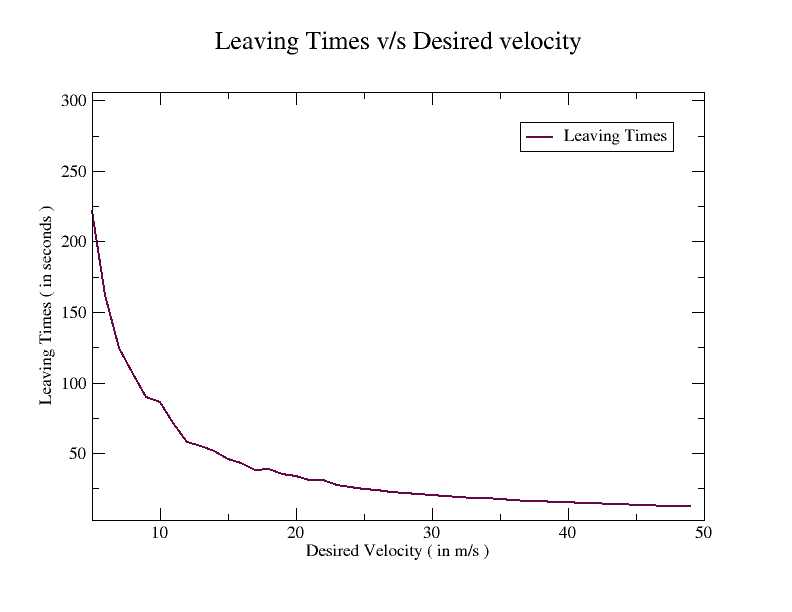
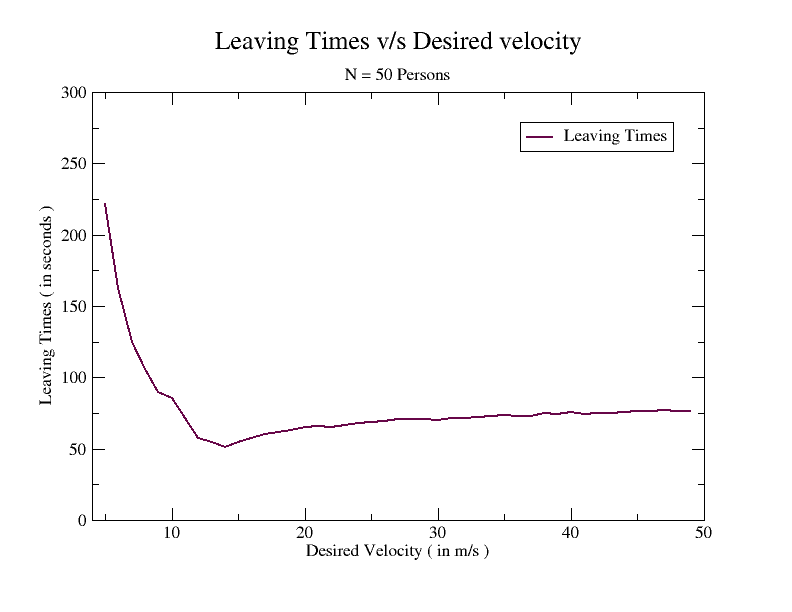
Modelled Tangential Force

diff --git a/model.py b/model.py
@@ -9,6 +9,7 @@ from pygame.locals import *
 from turtle import screensize
 from model_parameters import locations, N, walls, wall_distance, normalize, g
 
+# FILE HANDLING ROUTINE
 # a = 1 
 # while a <= N:
 #     path = r'C:\\Users\\Gourang Pathak\\Desktop\\Gourang\\NSM-Goa-4-Project\\positions'
@@ -38,7 +39,7 @@ from model_parameters import locations, N, walls, wall_distance, normalize, g
 #         fp.write("Starting Actual Velocity = ")
 #     c += 1
 
-f = open("data.xyz", "a");
+f = open("data.xyz", "a")
 
 pygame.init()
 pygame.font.init() 
@@ -89,6 +90,7 @@ class Person(object):
               
         
         self.K = 120000
+        self.kappa = 240000
         self.A_i = 2000
         self.B_i = 0.08*50
 
@@ -109,19 +111,21 @@ class Person(object):
         d_ij = np.linalg.norm(self.pos - other.pos)
         r_ij = self.shoulder_radius + other.shoulder_radius
         n_ij = (self.pos - other.pos)/d_ij
+        t_ij = [-n_ij[1],n_ij[0]]
         total = self.A_i*np.exp((r_ij-d_ij)/(self.B_i))*n_ij
         + self.K*g(r_ij-d_ij)*n_ij
-        
+        + self.kappa*g(r_ij-d_ij)*(other.desired_V - self.desired_V)*t_ij
         if d_ij <= r_ij:
             self.collisions += 1
             
         return total
     
     def f_iW(self, wall): # interaction with the wall in the room
-        d_iW,n_iW = wall_distance(self.pos,wall)
+        d_iW,n_iW,t_iW = wall_distance(self.pos,wall)
         r_i = self.shoulder_radius
         total = -self.A_i*np.exp((r_i-d_iW)/self.B_i)*n_iW 
         + self.K*g(r_i-d_iW)*n_iW
+        + self.kappa*g(r_i-d_iW)*self.desired_V*t_iW
         return total
 
 def main():
@@ -164,7 +168,7 @@ def main():
             for P_i in persons:
                 persons.remove(P_i)
 
-        dt = clock.tick(50)/1000
+        dt = clock.tick(70)/1000
         
         for event in pygame.event.get():
             if event.type == pygame.QUIT:
@@ -183,7 +187,7 @@ def main():
             end_posx = end_posw
             pygame.draw.line(roomscreen, wall_color, start_posx, end_posx, 3)
         
-        f.write("\n"+str(len(persons))+"\n")
+        f.write(str(len(persons))+"\n")
         f.write("Positions\n")
 
         for P_i in persons:
@@ -220,9 +224,9 @@ def main():
             # f.close()
 
             # Avoiding disappearing persons   
-            # if P_i.pos[0] > 750 or P_i.pos[0] < 50 or P_i.pos[1] > 750 or P_i.pos[1] < 50:
-            #     main()
-            #     sys.exit()
+            if P_i.pos[0] > 750 or P_i.pos[0] < 50 or P_i.pos[1] > 750 or P_i.pos[1] < 50:
+                main()
+                sys.exit()
             
             P_i.time += clock.get_time()/1000 
         

diff --git a/model_parameters.py b/model_parameters.py
@@ -43,7 +43,8 @@ def wall_distance(point, wall):
         proj_coordinate = p0 + proj*d
         distance = np.linalg.norm(proj_coordinate-point)
     direction = normalize(proj_coordinate-point)
-    return distance,direction
+    tangentWall = [-direction[1], direction[0]]
+    return distance,direction,tangentWall
 
 walls = [[room_left, room_top, room_left + room_width, room_top], 
 [room_left, room_top+room_height, room_left, room_top], 
@@ -67,7 +68,7 @@ for i in range(0,N):
         y = np.random.uniform(100,700) # random y coordinate in room
         for wall in walls:
             r_i = shoulder_radius
-            d_iW,n_iW = wall_distance(np.array([x, y]),wall)
+            d_iW,n_iW,t_iW = wall_distance(np.array([x, y]),wall)
             '''
             Here for each wall we are calculating the distance between the wall and
             the person if the distance between the wall and the person is less than the
